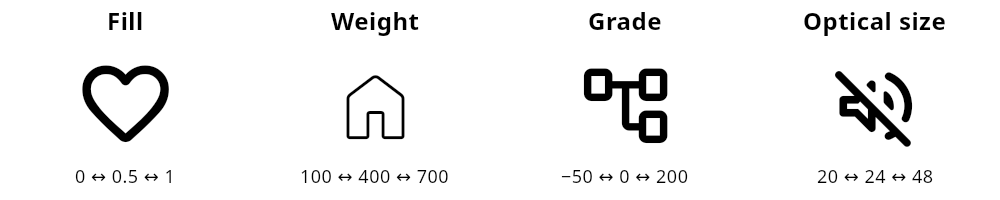
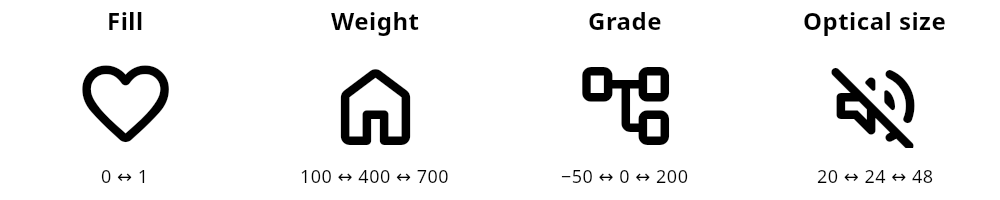
Correct variable font demo target sequence

diff --git a/tools/readme-media/src/main/kotlin/ReadmeMedia.kt b/tools/readme-media/src/main/kotlin/ReadmeMedia.kt
@@ -76,11 +76,11 @@ private val ComparisonStates = listOf(Axes(fill = 1f), Axes()) +
     WeightAndOpticalStates + listOf(Axes(fill = 1f)) +
     WeightAndOpticalStates.map { it.copy(fill = 1f) }
 private val VariableStates = listOf(
-    Axes(fill = 0f, weight = 100f, grade = -50f, opticalSize = 20f),
-    Axes(fill = 0.5f),
+    Axes(),
     Axes(fill = 1f, weight = 700f, grade = 200f, opticalSize = 48f),
-    Axes(fill = 0.5f),
-    Axes(fill = 0f, weight = 100f, grade = -50f, opticalSize = 20f),
+    Axes(),
+    Axes(fill = 1f, weight = 100f, grade = -50f, opticalSize = 20f),
+    Axes(),
 )
 
 // Real Compose state animations, driven by the capture scene's deterministic frame clock.
@@ -156,7 +156,7 @@ private fun VariableFonts(target: Axes) {
     val axes = animatedAxes(target)
     Box(Modifier.size(Width.dp, Height.dp).background(Color.White)) {
         val labels = listOf("Fill", "Weight", "Grade", "Optical size")
-        val ranges = listOf("0 ↔ 0.5 ↔ 1", "100 ↔ 400 ↔ 700", "−50 ↔ 0 ↔ 200", "20 ↔ 24 ↔ 48")
+        val ranges = listOf("0 ↔ 1", "100 ↔ 400 ↔ 700", "−50 ↔ 0 ↔ 200", "20 ↔ 24 ↔ 48")
         val codepoints = listOf(Symbols.Material.Favorite, Symbols.Material.Home, Symbols.Material.AccountTree, Symbols.Material.VolumeOff)
         for (i in 0..3) {
             val x = i * 250

diff --git a/tools/readme-media/encode.py b/tools/readme-media/encode.py
@@ -51,8 +51,8 @@ def encode(name: str) -> None:
     else:
         crops = [(73 + i * 250, 44, 177 + i * 250, 148) for i in range(4)]
         expected = [
-            (0, 100, -50, 20), (0.5, 400, 0, 24), (1, 700, 200, 48),
-            (0.5, 400, 0, 24), (0, 100, -50, 20),
+            (0, 400, 0, 24), (1, 700, 200, 48), (0, 400, 0, 24),
+            (1, 100, -50, 20), (0, 400, 0, 24),
         ]
         with (paths[0].parent / "states.csv").open() as source:
             states = list(csv.DictReader(source))
@@ -60,10 +60,14 @@ def encode(name: str) -> None:
         for index, (state, axes) in enumerate(zip(states, expected)):
             assert int(state["frame"]) == index * 96
             assert tuple(float(state[key]) for key in ("fill", "weight", "grade", "opticalSize")) == axes
-        for crop in crops:
+        for axis, crop in enumerate(crops):
             settled = [frames[index * 48 + 47].crop(crop) for index in range(len(expected))]
-            assert all(ImageChops.difference(a, b).getbbox() for a, b in zip(settled, settled[1:])), "Each small/medium/large step must render"
-            assert ImageChops.difference(settled[0], settled[2]).getbbox(), "Small and large must differ"
+            assert all(ImageChops.difference(a, b).getbbox() for a, b in zip(settled, settled[1:])), "Every axis transition must render"
+            assert all(ImageChops.difference(settled[0], settled[index]).getbbox() is None for index in (2, 4)), "Medium/unfilled states must match"
+            if axis == 0:
+                assert ImageChops.difference(settled[1], settled[3]).getbbox() is None, "Both filled states must match"
+            else:
+                assert ImageChops.difference(settled[1], settled[3]).getbbox(), "Small and large must differ"
     for crop in crops:
         assert any(ImageChops.difference(first.crop(crop), frame.crop(crop)).getbbox() for frame in frames), f"Icon/axis did not animate: {crop}"
 

diff --git a/tools/readme-media/README.md b/tools/readme-media/README.md
@@ -61,17 +61,17 @@ loop. Weight and optical-size transitions run first unfilled, then filled:
 | 19 | 1 | 400 | 24 |
 
 The variable-font image has four columns from one font, isolating fill, weight,
-grade, and optical size. Each follows small → medium → large → medium → small:
-five targets held for 1.6 seconds each, making an eight-second loop.
+grade, and optical size. Weight, grade, and optical size follow
+medium → large → medium → small → medium. Fill alternates 0 → 1 → 0 → 1 → 0.
+Five targets held for 1.6 seconds each make an eight-second loop.
 
 | Axis | Small | Medium | Large |
 | --- | ---: | ---: | ---: |
-| `FILL` | 0 | 0.5 | 1 |
 | `wght` | 100 | 400 | 700 |
 | `GRAD` | -50 | 0 | 200 |
 | `opsz` | 20 | 24 | 48 |
 
-Medium uses the font's default weight, grade, and optical size, with half fill.
+Medium uses the font's default weight, grade, and optical size.
 Each column centers its title, glyph, and numeric axis labels; there is no
 overall title or subtitle. Optical size adjusts glyph detail within a fixed
 layout size. Explanatory captions live in the README. The font snapshot is documented in

diff --git a/README.md b/README.md
@@ -108,10 +108,10 @@ font, then use your Material 3 motion scheme:
 
 [Still image](docs/media/variable-fonts-still.png)
 
-The four columns use one Rounded variable font, varying one axis at a time:
-fill, weight, grade, and optical size. Each follows small → medium → large →
-medium → small in eight seconds, with numeric axis labels. Optical size adjusts
-glyph detail within a fixed layout size.
+The four columns use one Rounded variable font, varying one axis at a time.
+Weight, grade, and optical size follow medium → large → medium → small → medium;
+fill alternates 0 → 1 → 0 → 1 → 0. Each loop lasts eight seconds, with numeric
+axis labels. Optical size adjusts glyph detail within a fixed layout size.
 
 Both animations use the actual renderer and Material 3 Expressive default
 spatial motion. [Reproduce the media](tools/readme-media/README.md).
